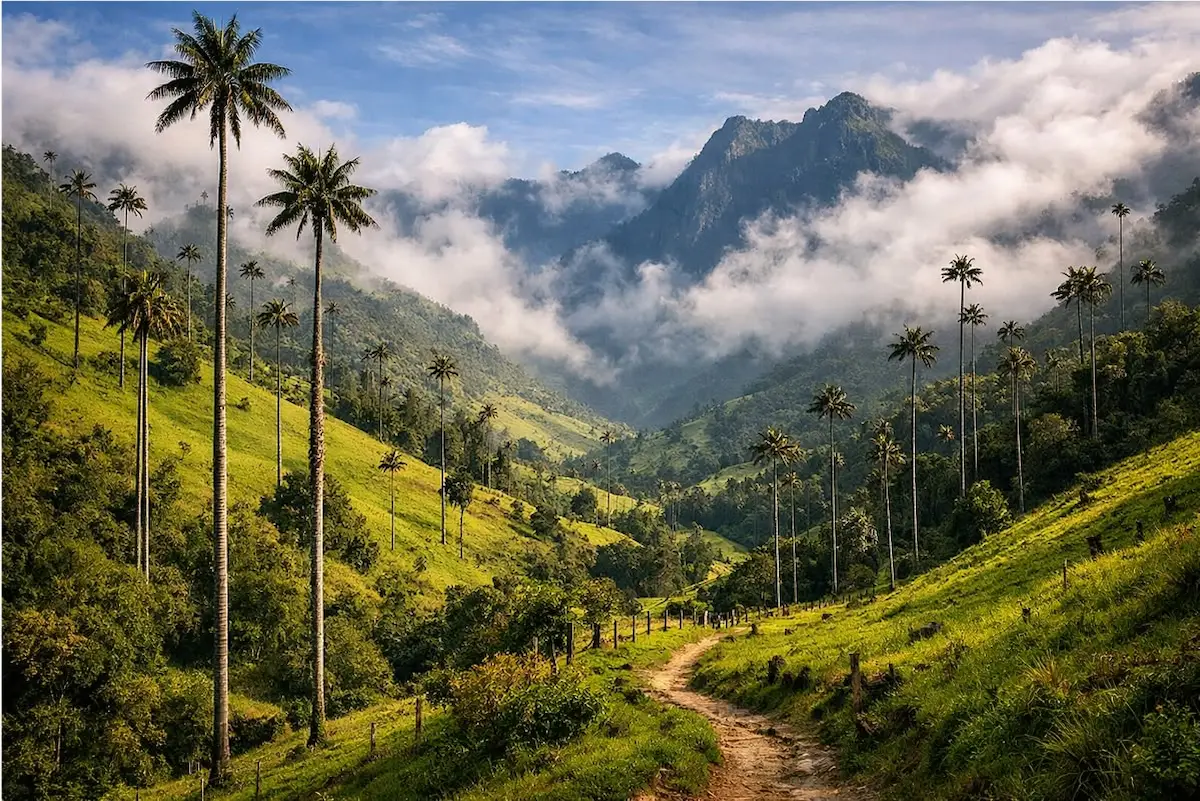
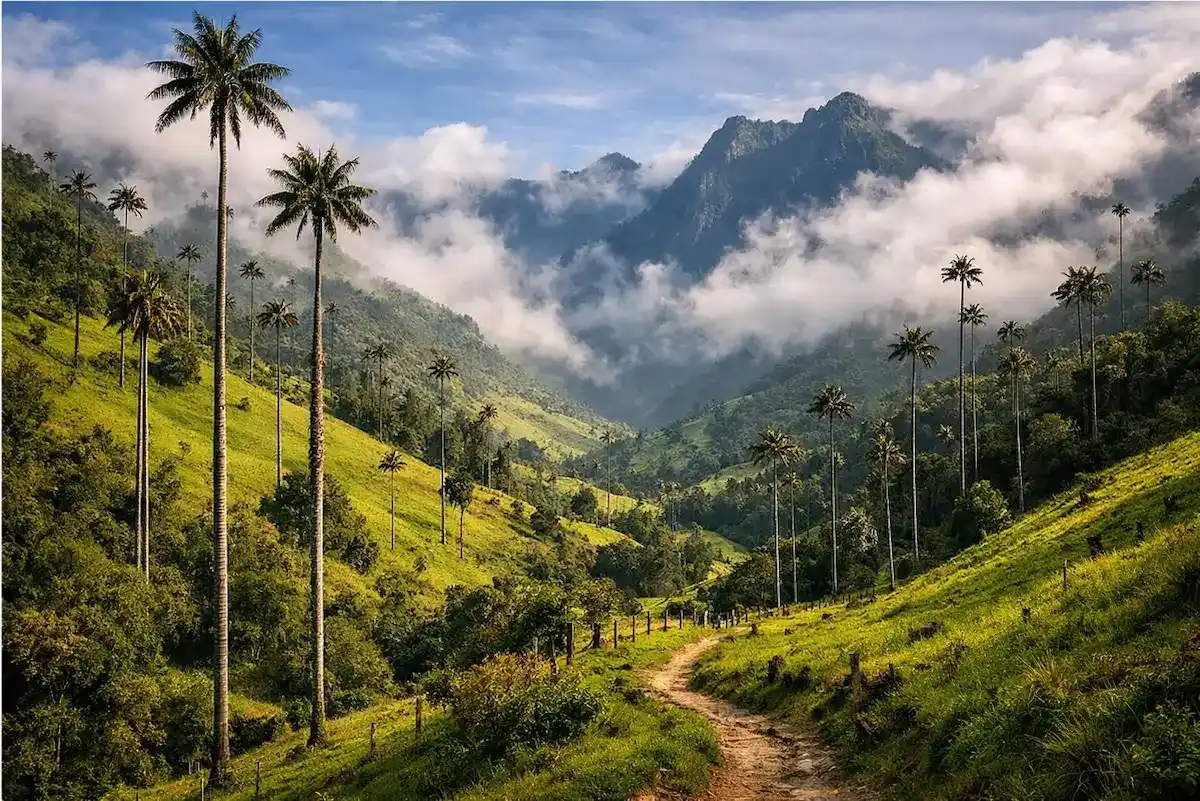
project

Changed region(s): [[0.4625, 0.8427, 0.4933, 0.8739], [0.4317, 0.8115, 0.4625, 0.8427]]

diff --git a/project/scripts/main.js b/project/scripts/main.js
@@ -91,7 +91,7 @@ function displayDestinations () {
 
             <p>${destination.description}</p>
 
-            <a href="destinations.html" class="button">Learn More</a>
+            <a href="destinations.html" class="button">Learn More about ${destination.name}</a>
         
         </div>
     `;

diff --git a/project/index.html b/project/index.html
@@ -45,7 +45,7 @@
             </div>
         </section>
 
-        <section id="welcomeMessage"></section>
+        <div id="welcomeMessage"></div>
 
         <section class="why-visit">
 
